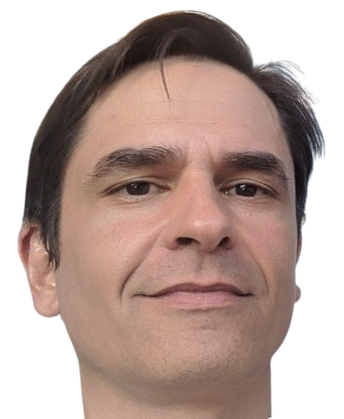
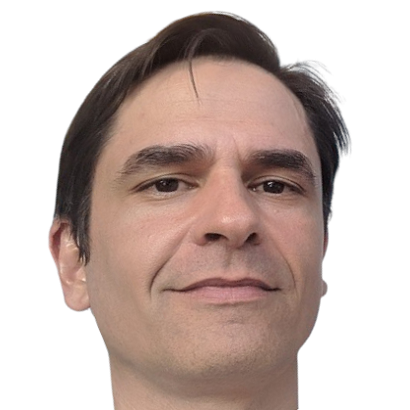
Some Tests

diff --git a/assets/css/style.css b/assets/css/style.css
@@ -39,7 +39,7 @@ html, body, figure, img, div, input, textarea, p, h1, h2, h3, h4, h5, h6, ul, li
     --corBackgroundPrimaria: #45dbfc;
     --corBackgroundSecundaria: #04133d;
     --corBackgroundDark:#0e0e0e;
-    --corTextPrimaria:#636363;
+    --corTextPrimaria:#000;
     --corTextSecudaria:#000;
 
 }
@@ -60,6 +60,18 @@ header{
     background-color: var(--corBackgroundPrimaria);
     padding: 30px 30px 0;
 }
+figure {
+    text-align: center; 
+}
+.photo {
+    width: 70%;
+    height: 70%;
+    /* -webkit-transform: rotate(-10deg); */
+    /* -moz-transform: rotate(-10deg); */
+    /* -o-transform: rotate(-10deg); */
+    /* -ms-transform: rotate(-10deg); */
+    /* transform: rotate(-10deg); */
+}
 header .container{
     background-color: white;
 }
@@ -79,7 +91,7 @@ header .coluna img{
 }
 header .coluna h1{
     font-size: 1.5rem;
-    color:var(--corTextSecudaria);
+    color:var(--corTextPrimaria);
 }
 header .coluna p{
     font-size: 1rem;
@@ -93,7 +105,7 @@ header .coluna ul li{
 }
 header .coluna ul li a{
     font-size: 1rem;
-    color:var(--corTextSecudaria);
+    color:var(--corTextPrimaria);
 }
 
 
@@ -146,7 +158,7 @@ main .coluna section{
     border-bottom: 1px solid #d4e9ff;
     margin: 0 0 20px;
     min-height: 187px;
-    color:var(--corTextSecudaria);
+    color:var(--corTextPrimaria);
 }
 
 main .coluna section h2{
@@ -175,13 +187,6 @@ main .coluna section ul li strong{
 
 /* EXTRAS */
 
-/* .rotatephoto { */
-    /* -webkit-transform: rotate(-10deg); */
-    /* -moz-transform: rotate(-10deg); */
-    /* -o-transform: rotate(-10deg); */
-    /* -ms-transform: rotate(-10deg); */
-    /* transform: rotate(-10deg); */
-/* } */
 .ativar-dark{
     width: 50px;
     height: 50px;
@@ -213,12 +218,12 @@ label span{
 
 .gradient-border {
     font-size: 0.9rem;
-    --borderWidth: 5px;
-    background: white;
+    --borderWidth: 7px;
+    background-color: white;
     position: relative;
     border-radius: var(--borderWidth);
 }
-  .gradient-border:after {
+.gradient-border:after {
     content: '';
     position: absolute;
     top: calc(-1 * var(--borderWidth));
@@ -229,37 +234,37 @@ label span{
     /* background: linear-gradient(60deg, #4F3E27, #66573B, #7D715A, #999185, #AFA492, #D2D0C5); */
     border-radius: calc(2 * var(--borderWidth));
     z-index: -1;
-    animation: animatedgradient 3s ease alternate infinite;
+    animation: animatedgradient 5s ease alternate infinite;
     background-size: 300% 300%;
 }
 
-.ativar-dark:checked ~ .dark-mode label{
+.ativar-dark:checked ~ .dark-mode label {
     background-color: #d4e9ff;
 }
-.ativar-dark:checked ~ .dark-mode label span{
+.ativar-dark:checked ~ .dark-mode label span {
     background-color: var(--corBackgroundSecundaria);
     /* margin-left: 21px; */
     transform: translateX(21px);
     transition: all ease .3s;
 }
 
-.ativar-dark:checked ~ .dark-mode{
+.ativar-dark:checked ~ .dark-mode {
     --corBackgroundPrimaria: #000;
-    --corBackgroundSecundaria: #000;
+    --corBackgroundSecundaria: rgb(48, 45, 45);
     --corTextPrimaria:#fff;
-    --corTextSecudaria:#fff;
 }
-.ativar-dark:checked ~ .dark-mode header{
+.ativar-dark:checked ~ .dark-mode header {
     background-color:var(--corBackgroundSecundaria) ;
 }
 .ativar-dark:checked ~ .dark-mode main {
     background-color:var(--corBackgroundSecundaria) ;
 } 
-.ativar-dark:checked ~ .dark-mode .container{
+.ativar-dark:checked ~ .dark-mode .container {
     background-color:var(--corBackgroundDark) ;
 }
+
 .ativar-dark:checked ~ .dark-mode .gradient-border {
-    background-color:var(--corBackgroundDark) ;
+    background-color: var(--corBackgroundSecundaria);
 }
 
 @keyframes animatedgradient {

diff --git a/index.html b/index.html
@@ -30,8 +30,8 @@
                         <!-- CAIXA FOTO DE PERFIL -->
                         <div class="coluna coluna-esquerda">
                             <figure>
-                                    <img src="./assets/img/MyPhoto.png" class="rotatephoto">
-                                <figcaption class="hidden">Hudson Carolino</figcaption>
+                                    <img src="./assets/img/MyPhoto.png" class="photo">
+                                <figcaption class="hidden">Claus dos Santos</figcaption>
                             </figure>
                         </div>
 
@@ -113,7 +113,8 @@
                                 <ul>
                                     <li>Microsoft Exchange</li>
                                     <li>Microsoft Windows Server</li>
-                                    <li>Microsoft Active Directory HTML 5</li>
+                                    <li>Microsoft Active Directory</li>
+                                    <li>VMware vSphere</li>
                                     <li>Veritas Netbackup</li>
                                     <li>HTML 5 + CSS 3</li>
                                 </ul>
